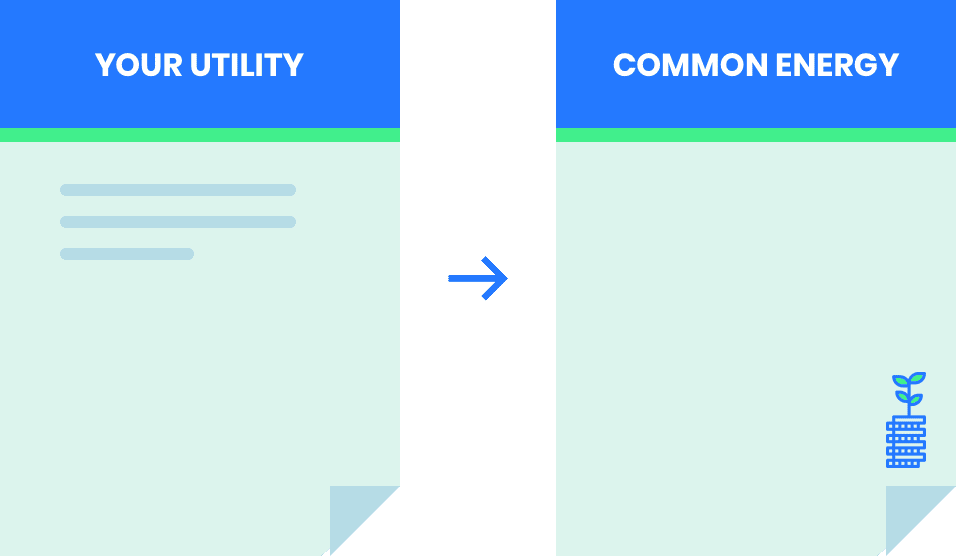
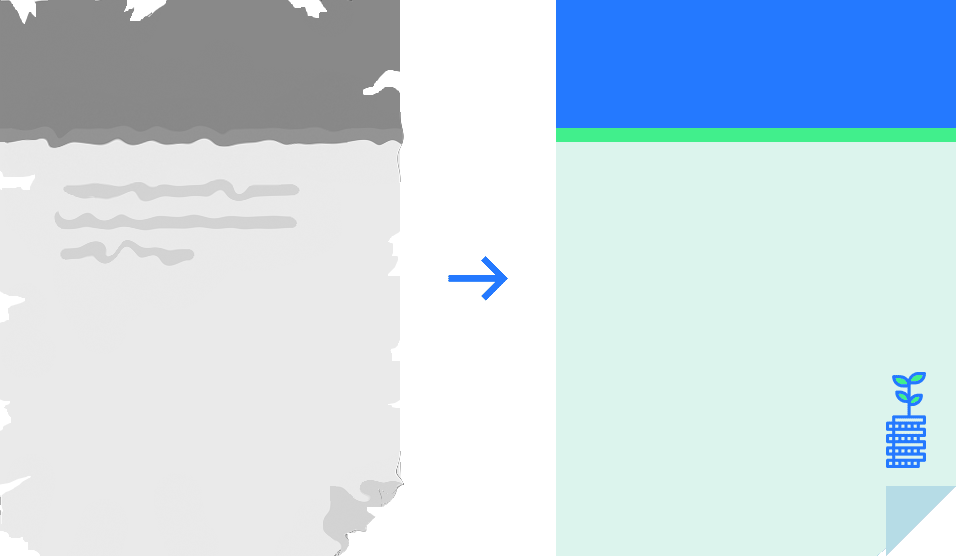
Add comparison bill styling

diff --git a/css/style.css b/css/style.css
@@ -9171,7 +9171,6 @@ p:last-child,
 .path-frontpage article.page.full .content > .layout:nth-of-type(3) img {
   margin: auto;
   width: 500px;
-  margin-top: 100px;
 }
 
 .path-frontpage article.page.full .content > .layout:nth-of-type(4) {
@@ -9917,6 +9916,9 @@ body.earnbysharingsolar-com .btn-yellow:hover {
   position: absolute;
   bottom: 0;
   width: 40%;
+  height: 100%;
+  -webkit-filter: grayscale(1);
+          filter: grayscale(1);
 }
 
 .dynamic-bill-large .new-bill,
@@ -9925,11 +9927,23 @@ body.earnbysharingsolar-com .btn-yellow:hover {
   bottom: 0;
   right: 2%;
   width: 38%;
+  position: absolute;
+  bottom: 0;
 }
 
 .dynamic-bill-large .new-bill .amount-row,
 .dynamic-bill-small .new-bill .amount-row {
   width: 100%;
+}
+
+.dynamic-bill-large .amount-total,
+.dynamic-bill-small .amount-total {
+  position: absolute;
+  bottom: 0;
+}
+
+.dynamic-bill-large {
+  margin-top: 100px;
 }
 
 .dynamic-bill-small {

diff --git a/scss/_rangeslider.scss b/scss/_rangeslider.scss
@@ -289,17 +289,30 @@
     position: absolute;
     bottom: 0;
     width: 40%;
+    height: 100%;
+    filter: grayscale(1);
   }
   .new-bill {
     position: absolute;
     bottom: 0;
     right: 2%;
     width: 38%;
+        position: absolute;
+    bottom: 0;
 
     .amount-row {
       width: 100%;
     }
   }
+
+  .amount-total {
+    position: absolute;
+    bottom: 0;
+  }
+}
+
+.dynamic-bill-large {
+  margin-top: 100px;
 }
 
 .dynamic-bill-small {

diff --git a/scss/_drupal-bootstrap.scss b/scss/_drupal-bootstrap.scss
@@ -500,7 +500,6 @@ p:last-child,
       img {
         margin: auto;
         width: 500px;
-        margin-top: 100px;
       }
     }
 
